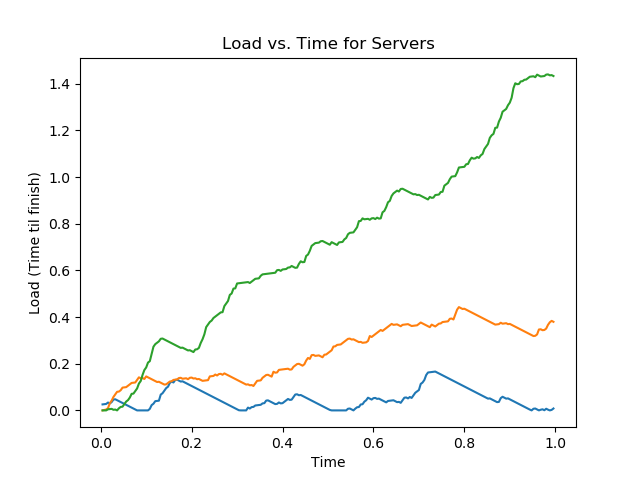
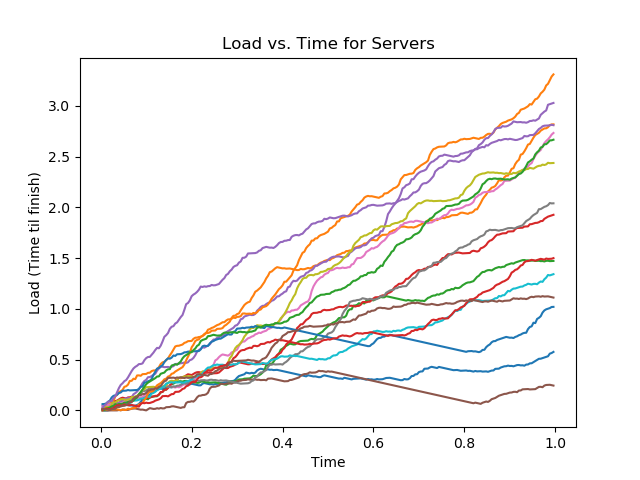
zz

diff --git a/main.py b/main.py
@@ -11,14 +11,14 @@ processing_time = 0.005 # time per packet
 '''
 
 # Packet generation variables
-num_flows = 100
+num_flows = 1000
 mean_flow_size = 10
 flow_size_stdev = 2
 max_flow_duration = 0.05
 # Num clients, load balancers, servers
-num_clients = 20
+num_clients = 200
 num_load_balancers = 2
-num_servers = 3
+num_servers = 16
 # Server processing time, time per packet
 processing_time = 0.005
 
@@ -188,7 +188,6 @@ def run_plotter(servers, assignment_method):
 			times.append(t)
 			loads.append(load)
 
-		
 		plt.plot(np.array([x for x in times]), np.array([y for y in loads]), label = server.id) # , s=5
 		plt.xlabel('Time')
 		plt.ylabel('Load (Time til finish)')
@@ -198,20 +197,43 @@ def run_plotter(servers, assignment_method):
 	plt.savefig('plots/SmallSystemWithFlows/' + assignment_method + '/LoadVsTimeForServers.png')
 	plt.clf()
 
-### Doesn't account for expired flows
-# def run_consistency_check(servers):
-# 	perFlowConsistent = True
-# 	for server in servers:
-# 		for otherServer in servers:
-# 			if server.id != otherServer.id:
-# 				for packet in server.packet_history:
-# 					if packet.clientid in [pckt.clientid for pckt in otherServer.packet_history]:
-# 						perFlowConsistent = False
-# 						break
-# 	if perFlowConsistent:
-# 		print("Per-Flow Consistency Maintained")
-# 	else:
-# 		print("Per-Flow Consistency Not Maintained")
+def run_consistency_check(servers):
+	perFlowConsistent = True
+	conflicting_packets = []
+	for server in servers:
+		for otherServer in servers:
+			if server.id != otherServer.id:
+				clients_both_servers = list(set([packet.clientid for packet in server.packet_history]) & set([packet.clientid for packet in otherServer.packet_history]))
+
+				packets_both_servers = []
+				for packet in server.packet_history:
+					packets_both_servers.append([packet.clientid, packet.time_sent, server.id])
+				for packet in otherServer.packet_history:
+					packets_both_servers.append([packet.clientid, packet.time_sent, otherServer.id])
+				packets_both_servers.sort(key=lambda x: x[1], reverse=False)
+
+				for client in clients_both_servers:
+					lastServer = None
+					lastTime = None
+					for packet in packets_both_servers:
+						if packet[0] == client:
+							if lastServer is None:
+								lastServer = packet[2]
+							else:
+								if packet[2] != lastServer:
+									if packet[1] - lastTime < max_flow_duration:
+										perFlowConsistent = False
+										# conflicting_packets.append([(client, lastServer, round(lastTime, 3), round(packet[1], 3), packet[2])])
+										lastServer = packet[2]
+							lastTime = packet[1]
+
+	if perFlowConsistent:
+		print("Per-Flow Consistency Maintained")
+	else:
+		print("Per-Flow Consistency Not Maintained")
+		# print("Flow Inconsistent Packets:")
+		# for packet in conflicting_packets:
+		# 	print(packet)
 
 
 def run_simulation(assignment_method):
@@ -258,7 +280,7 @@ def run_simulation(assignment_method):
 			"PowersOfXWithMemory": load_balancer.assign_server_power_of_x_choices_with_memory # Per-flow consistency :) + Congestion control :) 
 		}
 		func = switcher.get(assignment_method, lambda: "Invalid assignment method")
-		server_id = func(packet, servers, 3)
+		server_id = func(packet, servers, 2)
 		server = servers[server_id]
 		server.add_packet(packet)
 		#print("Load Balancer " + str(lb_id) + " sent packet from client " + str(packet.clientid) + " to server " + str(server_id))
